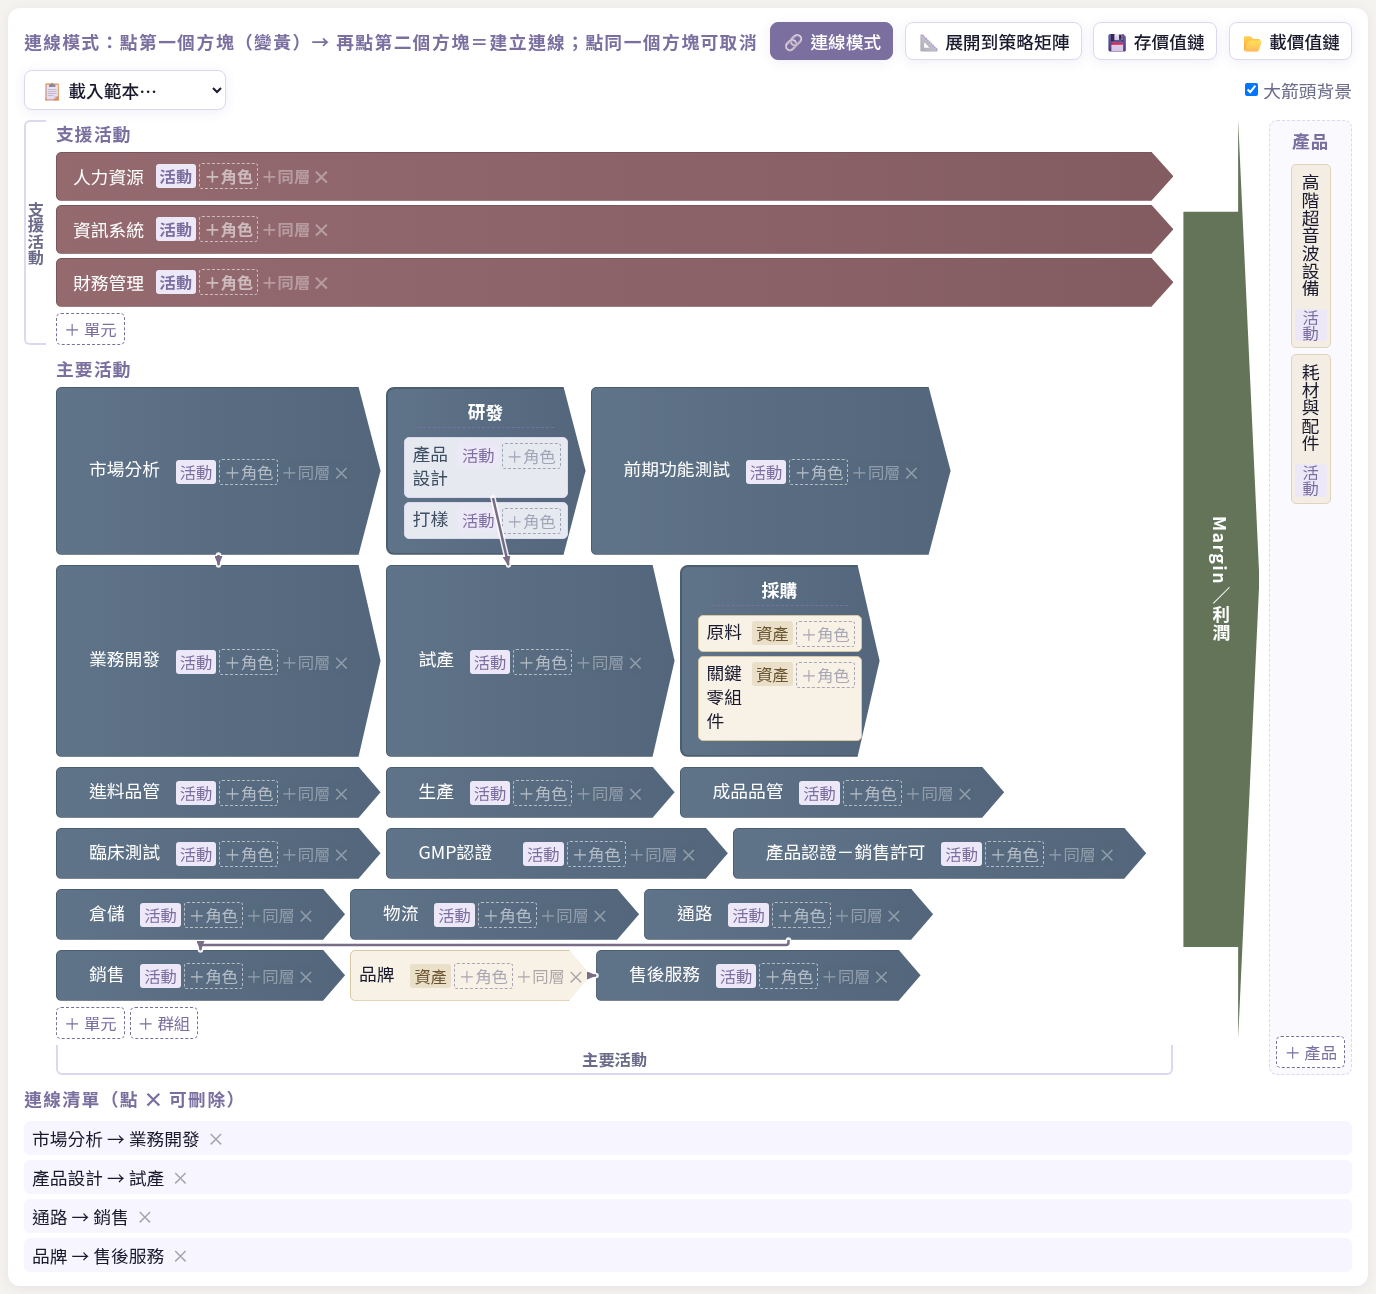
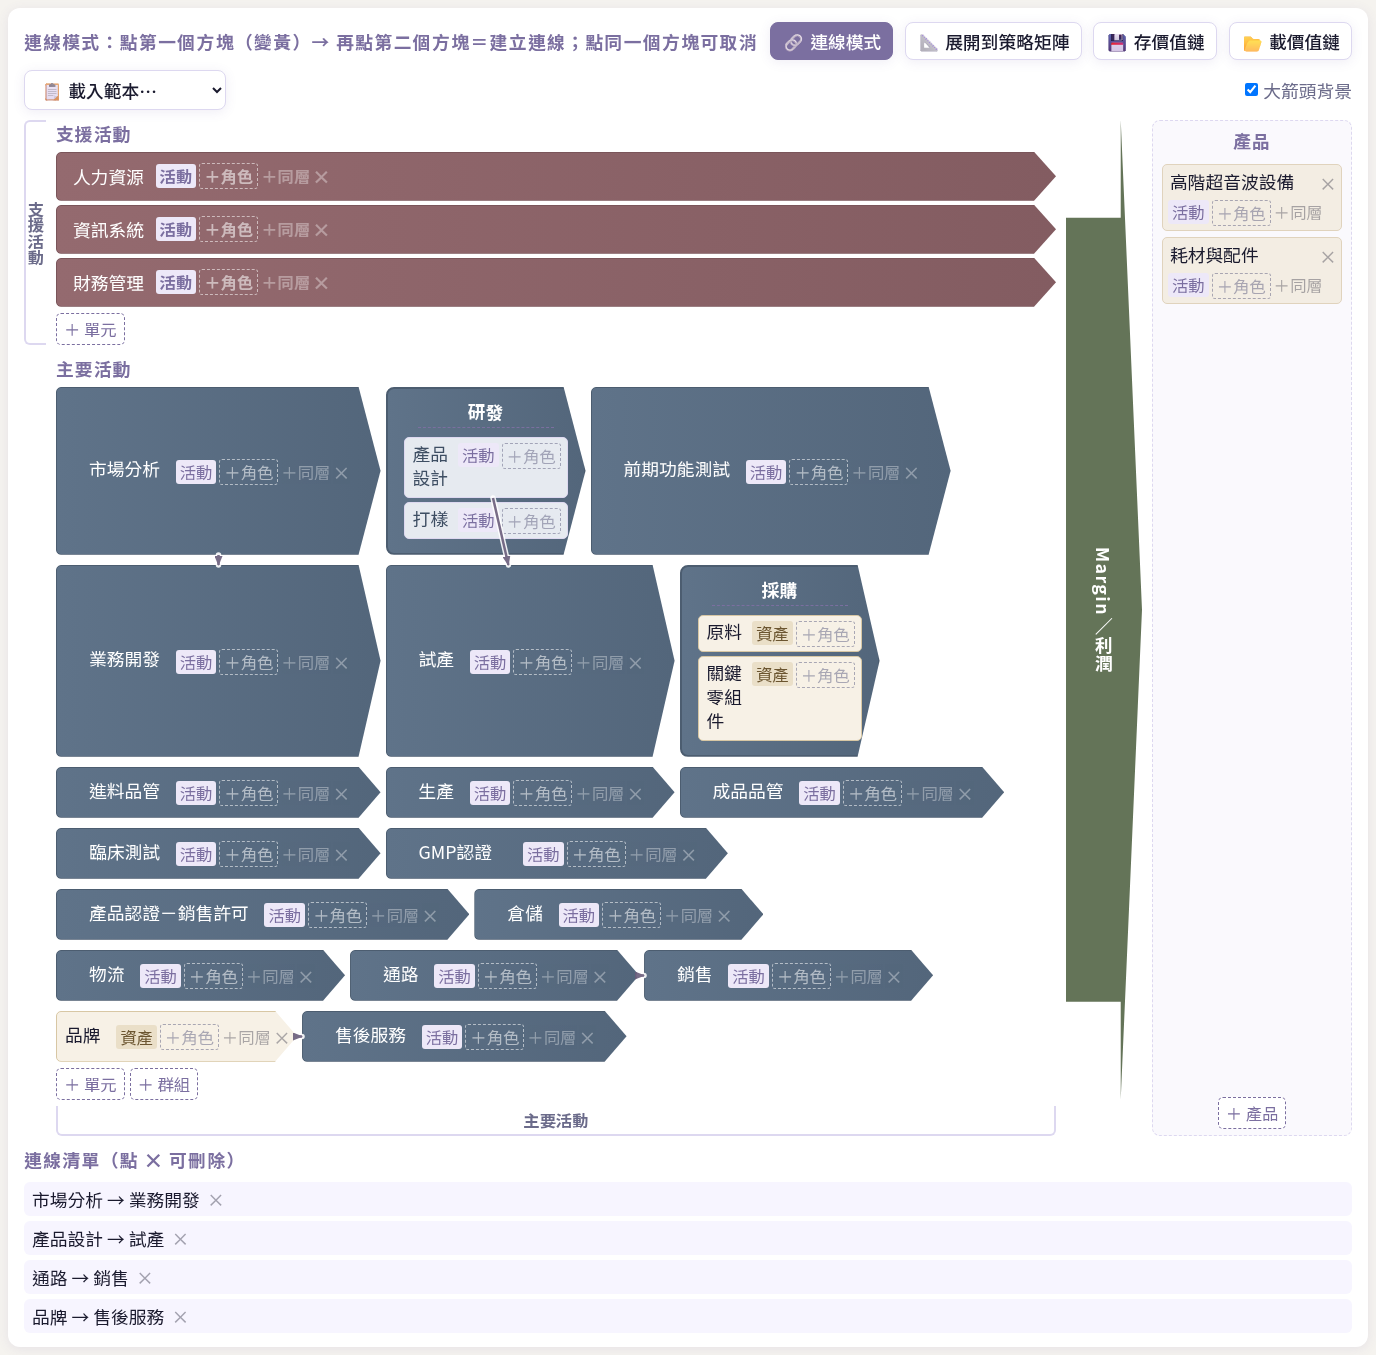
ST-31 產品欄維持最右，方塊文字改水平（兩行版型、200px 欄）；PPTX 產品欄 1.0–1.2" 橫排；手冊 10 張圖重拍；自測 tools/selftest/ST-31.mjs

diff --git a/index.html b/index.html
@@ -336,10 +336,11 @@
   #vcLineCanvas { position: absolute; top: 0; left: 0; width: 100%; height: 100%; pointer-events: none; z-index: 3; overflow: visible; }
   /* ST-01h：版型依循經典 Porter 價值鏈圖——支援活動在上（橫跨全寬的橫條，由上而下堆疊）、
      主要活動＋產品在下（並排方塊），右側 Margin 箭頭，左／下括號標示支援／主要活動 */
-  /* ST-23a：產品改放最右邊（Margin 箭頭右側）一整條直欄（三列全高）；關閉大箭頭時不留 Margin 空欄 */
+  /* ST-23a：產品改放最右邊（Margin 箭頭右側）一整條直欄（三列全高）；關閉大箭頭時不留 Margin 空欄
+     ST-31：產品欄固定 200px（與主要活動群組同寬），方塊文字橫排 */
   .vc-zones {
     position: relative; display: grid; gap: 10px;
-    grid-template-columns: 22px minmax(0, 1fr) 76px auto;
+    grid-template-columns: 22px minmax(0, 1fr) 76px 200px;
     grid-template-rows: auto 1fr auto;  /* 產品直欄比圖高時，多出的高度只給主要活動列（不撐大上方支援活動與下方括號） */
     grid-template-areas:
       "supportlabel support    margin products"
@@ -348,7 +349,7 @@
     align-items: stretch;
   }
   .vc-zones:not(.vc-arrow-bg) {
-    grid-template-columns: 22px minmax(0, 1fr) auto;
+    grid-template-columns: 22px minmax(0, 1fr) 200px;
     grid-template-areas:
       "supportlabel support    products"
       ".            activities products"
@@ -459,36 +460,34 @@
   .vc-zone-primary .vc-group-body > .vc-unit:not(.vc-asset) { background: var(--vc-child-bg); }
   .vc-zone-primary .vc-group-body > .vc-unit:not(.vc-asset) .vc-node-head :is(input, textarea) { color: var(--vc-child-text); }
   /* 產品欄（ST-01i 起不畫進 Porter 圖；ST-23a 改放 .vc-zones 最右邊的直欄）：展開到策略矩陣後成為產品欄。
-     寬螢幕產品方塊直排（vertical-rl）、由上而下排序；≤800px 回到圖下方的橫列 */
+     ST-31：方塊文字改橫排、由上而下堆疊；名稱用 textarea（同主要活動），長名稱換到第二行；≤800px 回到圖下方的橫列 */
   .vc-zone-products {
     grid-area: products; display: flex; flex-direction: column; gap: 6px; align-self: stretch;
-    min-width: 64px; padding: 6px; border-radius: 8px;
+    min-width: 0; padding: 6px; border-radius: 8px;
     border: 1px dashed var(--grid-line); background: #faf9fd;
   }
   .vc-zone-products > .vc-zone-title { text-align: center; cursor: help; }
   .vc-products-body {
-    flex: 1; display: flex; flex-direction: column; gap: 6px; align-items: center;
-    min-height: 34px; padding: 4px; border-radius: 6px; border: 1px dashed transparent;
+    flex: 1; display: flex; flex-direction: column; gap: 6px; align-items: stretch;
+    min-height: 34px; padding: 4px 2px; border-radius: 6px; border: 1px dashed transparent;
   }
   .vc-products-body.drag-over { border-color: var(--col-header); background: var(--cell-hover); }
   .vc-products-body > .vc-unit:not(.vc-asset) { background: var(--mx-product-cell-bg); border-color: var(--vc-product-border); }
-  /* 直排產品方塊：名稱與「活動／資產」「＋角色」「＋同層」「✕」順著直排由上往下；名稱寬度由 sizeVcInput 寫 inline-size */
-  .vc-products-body > .vc-unit { writing-mode: vertical-rl; padding: 6px 3px; }
-  .vc-products-body > .vc-unit .vc-node-head :is(input, textarea) { padding: 2px 1px; min-width: 0; min-inline-size: 2em; }
-  /* 直排時「＋同層」「✕」與未設定的「＋角色」平時隱藏、滑鼠移到方塊才顯示（同主要活動區作法），縮短方塊高度、少撐高 Porter 圖 */
-  .vc-products-body > .vc-unit > .vc-node-head > :is(.vc-act, .vc-role-none) { display: none; }
-  .vc-products-body > .vc-unit:hover > .vc-node-head > :is(.vc-act, .vc-role-none) { display: inline; }
-  .vc-products-body > .vc-drop-placeholder { writing-mode: vertical-rl; padding: 10px 0; }
-  .vc-products-body > .vc-zone-empty { writing-mode: vertical-rl; }
+  /* 產品方塊：200px 欄寬放不下名稱＋四個標籤同一列 → 第一行「名稱＋✕」（長名稱在名稱欄內換行），
+     第二行「活動／資產」「＋角色」「＋同層」；全部常駐（不用 hover 才顯示，避免滑過時名稱寬度改變被裁字） */
+  .vc-products-body > .vc-unit { min-width: 0; padding: 4px 5px; }
+  .vc-products-body > .vc-unit > .vc-node-head { flex: 1 1 auto; min-width: 0; flex-wrap: wrap; row-gap: 2px; align-items: flex-start; }
+  .vc-products-body > .vc-unit > .vc-node-head > textarea.vc-name-wrap { flex: 1 0 calc(100% - 24px); }
+  .vc-products-body > .vc-unit > .vc-node-head > .vc-act-remove { order: 1; margin-top: 2px; }
+  .vc-products-body > .vc-unit > .vc-node-head > :is(.vc-kind, .vc-role, .vc-act:not(.vc-act-remove)) { order: 2; }
   .vc-products-footer { display: flex; gap: 5px; flex-wrap: wrap; justify-content: center; }
   .vc-products-footer > .col-item-add { white-space: nowrap; }
   @media (max-width: 800px) {
     /* 裝飾括號與 Margin 箭頭的 display:flex 寫在上方 media query 之後，會蓋掉那裡的 display:none；在此再隱藏一次（ST-23a） */
     .vc-support-label, .vc-primary-label, .vc-margin-arrow { display: none; }
     .vc-products-body { flex-direction: row; flex-wrap: wrap; align-items: flex-start; }
-    .vc-products-body > .vc-unit, .vc-products-body > .vc-drop-placeholder, .vc-products-body > .vc-zone-empty { writing-mode: horizontal-tb; }
-    .vc-products-body > .vc-unit { padding: 3px 6px; }
-    .vc-products-body > .vc-unit > .vc-node-head > :is(.vc-act, .vc-role-none) { display: inline; }
+    /* 橫列時每個產品方塊固定 200px（名稱 textarea 是 flex 填滿，方塊本身要有寬度） */
+    .vc-products-body > .vc-unit { flex: 0 1 200px; }
     .vc-products-body > .vc-drop-placeholder { padding: 0 10px; }
     .vc-zone-products > .vc-zone-title { text-align: left; }
     .vc-products-footer { justify-content: flex-start; }
@@ -3603,8 +3602,8 @@ function bindVcDropArea(el, zone, getList, ownerId) {
 // 名稱輸入框尺寸調整：input 寬度隨字數；主要活動區的 textarea（可換行）高度隨內容撐開（ST-09）
 function sizeVcInput(inp) {
   if (inp.tagName === 'TEXTAREA') {
-    // 主要活動區最外層單元（不在群組內）維持依字數的自然寬度，不換行
-    if (inp.closest('.vc-unit') && !inp.closest('.vc-group-body')) {
+    // 主要活動區最外層單元（不在群組內）維持依字數的自然寬度，不換行；產品欄（ST-31）固定欄寬、填滿換行
+    if (inp.closest('.vc-unit') && !inp.closest('.vc-group-body, .vc-products-body')) {
       inp.style.width = (Math.max(2, [...inp.value].length) + 0.6) + 'em';
       inp.style.flex = '0 0 auto';
     }
@@ -3614,7 +3613,6 @@ function sizeVcInput(inp) {
     inp.style.height = inp.scrollHeight + 'px';
     return;
   }
-  // 用 inline-size（邏輯寬）：橫排＝寬、產品欄直排（ST-23a）＝高，同一公式兩種方向都對
   inp.style.inlineSize = (Math.max(2, [...inp.value].length) + 0.6) + 'em';
 }
 
@@ -3648,8 +3646,8 @@ function buildVcNode(node, zone) {
   const head = document.createElement('div');
   head.className = 'vc-node-head';
 
-  // 主要活動區（群組標題＋子項）名稱用 textarea 讓長名稱自動換行（ST-09）；其他區維持單行 input
-  const wrapName = zone === 'primary';
+  // 主要活動區（群組標題＋子項）與產品欄（ST-31）名稱用 textarea 讓長名稱自動換行（ST-09）；其他區維持單行 input
+  const wrapName = zone === 'primary' || zone === 'products';
   const inp = document.createElement(wrapName ? 'textarea' : 'input');
   if (wrapName) { inp.rows = 1; inp.className = 'vc-name-wrap'; } else inp.type = 'text';
   inp.value = node.name;
@@ -7266,7 +7264,7 @@ function buildArrowShapesXml(L, allSteps, activeStep, startId) {
 // ── 價值鏈頁（原生圖形）──────────────────────────────────────────────────
 // 不量 DOM（編輯區可能被隱藏），改用與編輯器相同結構的自有版面計算：
 // 支援活動＝上方橫條（由上往下堆）、主要活動＝下方並排的欄（群組內子項垂直排列）、
-// 產品＝最右側直排一欄（ST-23c，對應編輯器 .vc-zones 第 4 欄）。showArrowBg 為真時方塊改用 homePlate（右尖箭頭）
+// 產品＝最右側一欄（ST-23c，對應編輯器 .vc-zones 第 4 欄；ST-31 起方塊文字橫排）。showArrowBg 為真時方塊改用 homePlate（右尖箭頭）
 // 並在產品欄左邊加 Margin 箭頭。
 function buildValueChainShapesXml(areaX, areaY, areaW, areaH, startId, deepExtraH = 0) {
   let id = startId;
@@ -7276,7 +7274,6 @@ function buildValueChainShapesXml(areaX, areaY, areaW, areaH, startId, deepExtra
   const zoneTitleH= in2emu(0.2);
   const labelW    = in2emu(0.26);             // 左側「支援活動」括號
   const marginW   = in2emu(0.34);             // 右側 Margin／利潤 箭頭
-  const prodColW  = in2emu(0.5);              // ST-23c：最右側產品直欄寬（直排文字）
   const arrowBg   = !!valueChain.showArrowBg;
   const boxPrst   = arrowBg ? 'homePlate' : 'roundRect';
   const P         = pptxPalette();             // ST-12：價值鏈色跟著目前配色
@@ -7285,6 +7282,9 @@ function buildValueChainShapesXml(areaX, areaY, areaW, areaH, startId, deepExtra
   const primary = valueChain.primary;
 
   const products = valueChain.products.filter(n => n.type === 'unit');  // ST-18／ST-23c：產品直欄（Margin 右側，由上往下）
+  // ST-31：產品方塊文字橫排，欄寬 1.0"（10pt 約 6–7 字）；最長名稱超過 8 字時每多 1 字加 0.05"，上限 1.2"（再長由 autofit 縮字）
+  const prodMaxLen = Math.max(0, ...products.map(n => [...(n.name || '')].length));
+  const prodColW = in2emu(Math.min(1.2, Math.max(1.0, 1.0 + (prodMaxLen - 8) * 0.05)));
   const prodW    = products.length ? prodColW + gap : 0;
   const contentX = areaX + labelW + gap;
   const contentW = areaW - labelW - gap - prodW - (arrowBg ? marginW + gap : 0);
@@ -7471,10 +7471,10 @@ function buildValueChainShapesXml(areaX, areaY, areaW, areaH, startId, deepExtra
       </p:sp>`;
   }
 
-  // ── 產品直欄（ST-18 → ST-23c）：欄頂「產品」小標與區塊標題同列；方塊直排文字、等分欄高（每塊最高 1.6"，太少就從上排起）──
+  // ── 產品直欄（ST-18 → ST-23c → ST-31）：欄頂「產品」小標與區塊標題同列；方塊橫排文字、等分欄高（每塊最高 0.6"，太少就從上排起）──
   if (products.length) {
     const pN = products.length;
-    const pH = Math.min(in2emu(1.6), Math.floor((mh - gap * (pN - 1)) / pN));
+    const pH = Math.min(in2emu(0.6), Math.floor((mh - gap * (pN - 1)) / pN));
     // 有「產品→產品」且中間隔著別的產品時，線要沿欄右側上下（vcProductRoute）：方塊右邊讓出一條窄通道
     const pIds = new Set(products.map(n => n.id));
     const pLane = valueChain.links.some(l => pIds.has(l.from) && pIds.has(l.to)) ? in2emu(0.06) : 0;
@@ -7482,7 +7482,7 @@ function buildValueChainShapesXml(areaX, areaY, areaW, areaH, startId, deepExtra
     products.forEach((n, i) => {
       const isAsset = n.unitKind === 'asset';
       xml += box(n, prodX, supportTop + (pH + gap) * i, prodColW - pLane, pH, 'roundRect',
-        isAsset ? P.vcAssetBg : P.prodCellBg, isAsset ? P.vcAssetText : P.vcProductText, true, 1000, 45720, 'eaVert');
+        isAsset ? P.vcAssetBg : P.prodCellBg, isAsset ? P.vcAssetText : P.vcProductText, true, 1000, 45720);
     });
   }
 

diff --git a/manual.html b/manual.html
@@ -262,7 +262,7 @@
   <p>輸入後會自動暫存。</p>
 
   <h3 id="vc-edit">4.2 價值鏈編輯</h3>
-  <p>價值鏈分成三個區：上方的<b>支援活動</b>、下方的<b>主要活動</b>，以及最右邊（Margin／利潤箭頭右側）直排的<b>產品</b>。展開到矩陣時，這些單元會成為矩陣的欄位。</p>
+  <p>價值鏈分成三個區：上方的<b>支援活動</b>、下方的<b>主要活動</b>，以及最右邊（Margin／利潤箭頭右側）橫排堆疊的<b>產品</b>。展開到矩陣時，這些單元會成為矩陣的欄位。</p>
   <figure>
     <img src="manual/img/02-value-chain.png" alt="價值鏈編輯區">
     <figcaption>價值鏈編輯區（載入「醫療器材製造」範本後）。右側綠色大箭頭是「Margin／利潤」背景。</figcaption>
@@ -343,12 +343,12 @@
   <p>價值鏈最右邊、Margin／利潤箭頭右側的「產品」直欄，放的是這張矩陣要分析的產品（或產品線）；展開後會成為矩陣<b>右側的產品欄</b>。螢幕較窄（800px 以下）時，產品欄改排在價值鏈圖下方、橫向排列。</p>
   <ul>
     <li><span class="btn">＋ 產品</span>：新增一個產品。</li>
-    <li>點名稱可改名；滑鼠移到產品上會出現 <span class="btn">＋同層</span>、<span class="btn">✕</span>（刪除）與「＋角色」；可上下拖曳排序。</li>
+    <li>產品方塊的文字橫排：第一行是名稱與 <span class="btn">✕</span>（刪除），名稱太長會自動換行；第二行是「活動／資產」「＋角色」與 <span class="btn">＋同層</span>。點名稱可改名；可上下拖曳排序。</li>
     <li>連線模式下，產品也能點選來建立連線。</li>
   </ul>
   <figure>
     <img src="manual/img/07-vc-products.png" alt="價值鏈最右側的產品直欄">
-    <figcaption>Margin／利潤箭頭右側的產品直欄：產品由上而下排列，可上下拖曳排序。</figcaption>
+    <figcaption>Margin／利潤箭頭右側的產品直欄：產品方塊文字橫排、由上而下堆疊，可上下拖曳排序。</figcaption>
   </figure>
 
   <h3 id="expand">4.7 展開到策略矩陣</h3>

diff --git a/TODO.md b/TODO.md
@@ -4,7 +4,7 @@
 3. 每次變更前，先掃瞄有無新增沒編碼的，自動編碼。
 
 # 新增功能
-- [ ] ST-31 ![](assets/20261026_191323.png) 價值鏈的產品，改成水平排 (目前是垂直上下)（2026-10-26 使用者對 ST-23a 直排產品的回饋：產品欄位置維持最右，方塊內文字改水平；PPTX 同步）
+- [x] ST-31 ![](assets/20261026_191323.png) 價值鏈的產品，改成水平排 (目前是垂直上下)（2026-10-26 使用者對 ST-23a 直排產品的回饋：產品欄位置維持最右，方塊內文字改水平；PPTX 同步；完成 2026-10-26：產品欄維持最右，方塊文字改水平（兩行版型、200px 欄）；PPTX 產品欄 1.0–1.2" 橫排；手冊 10 張圖重拍；自測 tools/selftest/ST-31.mjs）
 - [ ] ST-32 ![](assets/20261026_191804.png) 自動隱藏無箭頭欄，無法回復全部顯示的。 藏在下面 ![](assets/20261026_191911.png)移到 Matrix 上方
 - [ ] ST-33 策略點描述，不顯示策略構想(專有名稱應為: 策略要素) 的箭頭，或是編輯。保留到第三步驟才處理
 - [ ] ST-34 檢查與修改網頁的專有名詞，要跟教科書的一致

diff --git a/doc/decisions.md b/doc/decisions.md
@@ -53,3 +53,4 @@
 | 2026-10-26 | ST-27c | 要素說明卡用 modal（沿用 .sm-modal）而非 popover；原生 title 縮成短版「id name（點 ⓘ 看說明）」 | 卡片含 SVG 與四段文字，popover 放不下；title 仍留快速提示 | 中 |
 | 2026-10-26 | ST-27c | 卡片 640px 以下才轉單欄（700px 仍雙欄） | 簡圖 290px＋文字在 668px 卡寬內放得下 | 易 |
 | 2026-10-26 | ST-28 | 手冊 13／15b／16／24 四張切到「全部構想」拍，其餘用預設「只看目前」 | 圖說提到多構想／⚔ 的才需要全部；其餘與使用者預設畫面一致 | 易 |
+| 2026-10-26 | ST-31 | 產品方塊橫排用兩行版型（名稱＋✕／標籤列），標籤常駐；欄寬 200px 與群組同寬；PPTX 產品欄 1.0–1.2" 依最長名稱 | 200px 放不下名稱＋四個標籤同列；hover 隱藏會讓名稱被裁 | 易：改 CSS |
